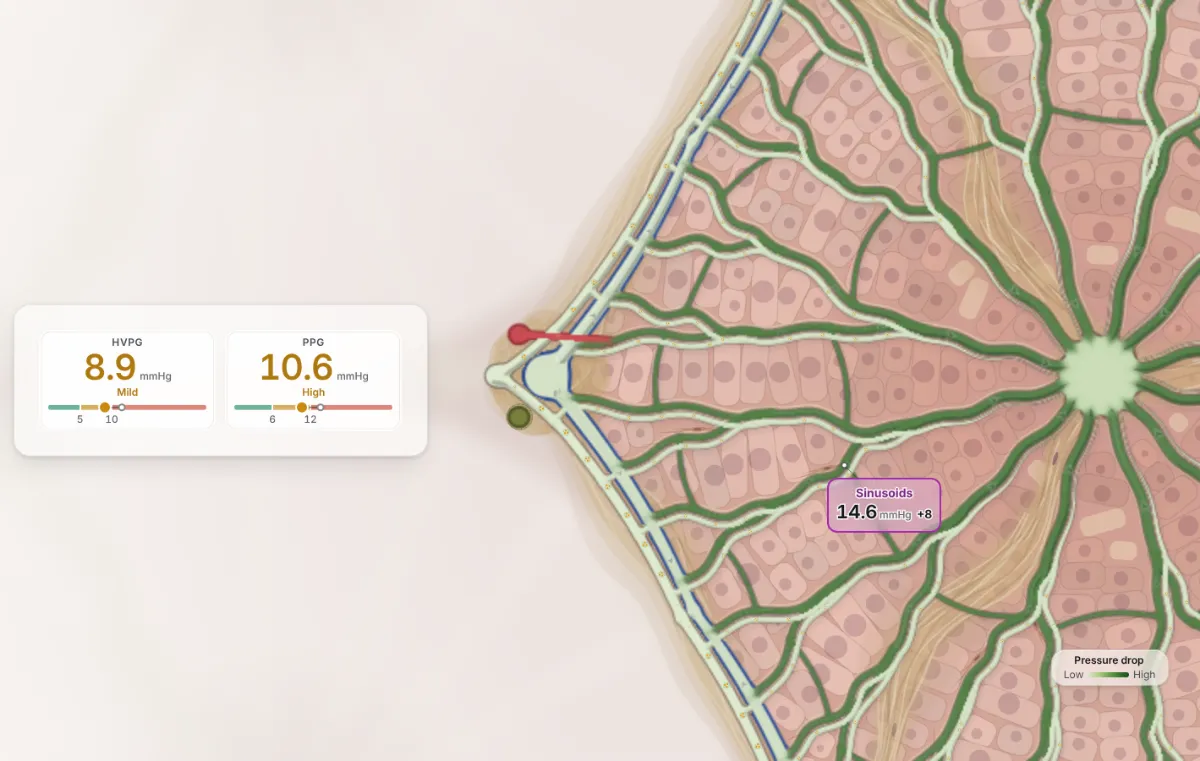
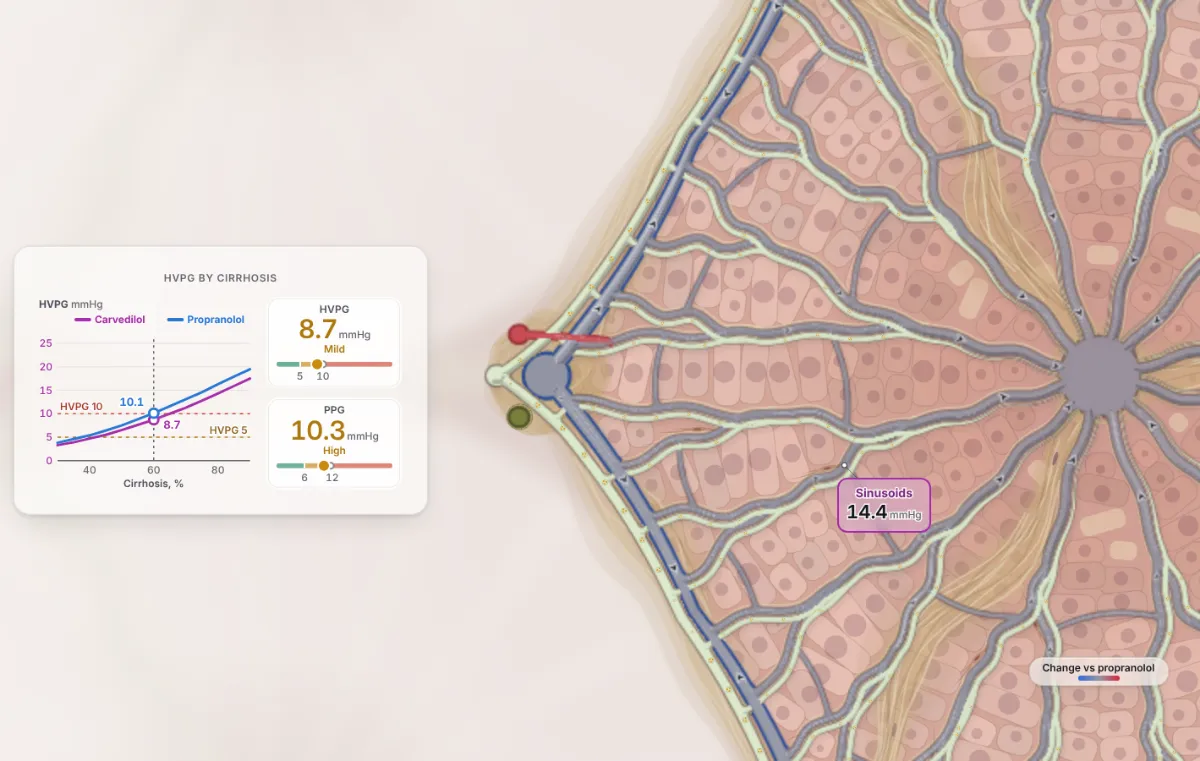
Beta-blockers 4: HVPG by cirrhosis on carvedilol and on propranolol (curve with against)
The carvedilol slide's data card gains the curve tool: the same patient swept
from 30 to 90% cirrhosis on carvedilol and on propranolol (HVPG 3.3 vs 3.8 at
30%, 8.7 vs 10.1 at the case's 60%, 17.5 vs 19.5 at 90%). The curve's two-line
key, shown when the lines' names don't fit on the drawing, takes its own row
when it would run into the reading's name and unit (every curve with against).

Claude-Session: https://claude.ai/code/session_01NmvvuDFbFqJfsFY4n2oiRW

diff --git a/src/ui/tool-curve.js b/src/ui/tool-curve.js
@@ -273,16 +273,20 @@ export function createCurve() {
     // (With against both lines are one reading on one scale, named on the lines; the key is only the reading and its unit.)
     const vals = ag ? [vals0.flat()] : vals0, keyLs = ag ? [{ ...lineMeta(curveLines(t)[0]), c: '--text-2', bare: true }] : ls;
     const keys0 = keyLs.length < 2 || keyLs.reduce((a, l) => a + 22 + cw(l.name, f, 1) + 6 + cw(l.unit, f), 0) + 2 * f <= w;
+    // (With against, the two lines' key that stands in when their names don't fit on the drawing takes a row of its own when
+    // it would run into the reading's name and unit at the left.)
+    const altW = ag ? ls.reduce((a, l) => a + 22 + 1.05 * cw(l.name, f, 1), 0) + f * (ls.length - 1) : 0;
+    const altBelow = ag && cw(keyLs[0].name, f, 1) + 6 + cw(keyLs[0].unit, f) + altW + 2 * f > w;
     // (No more numbers up the side than fit a line and a half of type apart.)
-    const plotH = h - 2.9 * f - ((keys0 ? 1 : 2) * 1.5 * f + 1.6 * f), most = clamp(Math.floor(plotH / (1.6 * f)) + 1, 3, 7);
+    const plotH = h - 2.9 * f - ((keys0 && !altBelow ? 1 : 2) * 1.5 * f + 1.6 * f), most = clamp(Math.floor(plotH / (1.6 * f)) + 1, 3, 7);
     const sL = leftScale(ls[0].k, vals[0], most), sR = ls[1] && !ag ? rightScale(vals[1], sL.ticks.length) : null;
     const keys = keyLs.map((l) => ({ ...l, w: (l.bare ? 0 : 22) + cw(l.name, f, 1) + 6 + cw(l.unit, f) }));
-    const oneRow = keys.length < 2 || keys[0].w + keys[1].w + 2 * f <= w, rowH = 1.5 * f, legH = (oneRow ? 1 : 2) * rowH;
+    const oneRow = keys.length < 2 || keys[0].w + keys[1].w + 2 * f <= w, rowH = 1.5 * f, legH = (oneRow && !altBelow ? 1 : 2) * rowH;
     const tw = (sc) => Math.max(...sc.ticks.map((v) => cw(fmt(v, dec(sc)), f)));
     const xt = xTicks(xs[0], xs.at(-1), Math.max(2, Math.min(7, Math.floor((w - 4 * f) / (3.2 * f)))));
     const L = Math.ceil(tw(sL) + 8), R = Math.floor(w - (sR ? tw(sR) + 8 : Math.max(8, cw(fmt(xs.at(-1), ax.d), f) / 2 + 2)));
     const T = legH + 1.6 * f, B = h - 2.9 * f;
-    return { w, h, f, ls, ag, ax, xs, xt, sL, sR, keys, oneRow, rowH, L, R, T, B: Math.max(T + 3 * f, B) };
+    return { w, h, f, ls, ag, ax, xs, xt, sL, sR, keys, oneRow, altBelow, rowH, L, R, T, B: Math.max(T + 3 * f, B) };
   }
   const X = (x) => G.L + (G.R - G.L) * (x - G.xs[0]) / ((G.xs.at(-1) - G.xs[0]) || 1);
   const Yof = (sc) => (v) => G.B - (G.B - G.T) * clamp((v - sc.min) / ((sc.max - sc.min) || 1), 0, 1);
@@ -328,7 +332,7 @@ export function createCurve() {
       const ks = [...ls].reverse().map((l) => { const kw = 22 + 1.05 * cw(l.name, f, 1); x -= kw; const at = x; x -= f;
         return sv('g', { transform: `translate(${at.toFixed(1)} 0)` }, sv('line', { x1: 0, x2: 16, y1: 0, y2: 0, style: `stroke: var(${l.c})` }),
           sv('text', { x: 22, y: 0.36 * f, style: `fill: var(${l.c})` }, l.name)); });
-      alt = sv('g', { class: 'pft-key pcv-alt off', transform: `translate(${G.w} ${0.75 * f})` }, ks);
+      alt = sv('g', { class: 'pft-key pcv-alt off', transform: `translate(${G.w} ${(G.altBelow ? G.rowH : 0) + 0.75 * f})` }, ks);
     }
     const axis = [sv('line', { class: 'pft-x', x1: L, x2: R, y1: B, y2: B }),
       // (The two end numbers stand inside the plot's ends, clear of the corner numbers of the y axes.)

diff --git a/src/ui/decks/beta-blockers.js b/src/ui/decks/beta-blockers.js
@@ -41,11 +41,12 @@ export const BETA_BLOCKERS = {
       ask: ['How does propranolol lower portal pressure?', 'It cuts the portal inflow: a lower cardiac output (β1) and constricted gut arterioles (β2).'],
     },
     {
-      id: 'carv-sin', params: CARV, lens: 'since', sinceLabel: 'propranolol', cam: 'lobule:sinusoid', terms: { sinusoids: 'lobule:sinusoid' }, data: 'tiles', tiles: ['hvpg', 'ppg'], key: ['hvpg'], delta: 'prop-sin',
+      id: 'carv-sin', params: CARV, lens: 'since', sinceLabel: 'propranolol', cam: 'lobule:sinusoid', terms: { sinusoids: 'lobule:sinusoid' },
+      tool: { kind: 'curve', param: 'cirrhosis', from: 0.3, to: 0.9, step: 0.05, lines: ['hvpg'], against: { label: 'Propranolol', params: PROP, own: 'Carvedilol' } }, data: 'tiles', tiles: ['hvpg', 'ppg'], key: ['hvpg'], delta: 'prop-sin',
       compare: [{ label: 'Propranolol', params: PROP }, { label: 'Carvedilol', own: true, params: CARV }],
       kicker: 'Cirrhosis', site: 'sin', title: 'Carvedilol lowers the HVPG more than propranolol in cirrhosis',
       line: 'Most of the resistance sits in the sinusoids. Carvedilol\'s α1 blockade is thought to relax their stellate cells, and with the lower inflow the HVPG falls to {hvpg}. Colored by change against propranolol, pressure in the sinusoids falls further.',
-      notes: 'Switch between the two drugs: carvedilol acts on both flow and resistance, so it lowers the HVPG more; in trials, by about 2 mmHg more than propranolol. Baveno VIII prefers carvedilol in compensated cirrhosis with clinically significant portal hypertension, to prevent decompensation.',
+      notes: 'Switch between the two drugs: carvedilol acts on both flow and resistance, so it lowers the HVPG more; in trials, by about 2 mmHg more than propranolol. The chart runs the same patient from mild to advanced cirrhosis on each drug: in the model the gap between the two lines widens as the sinusoidal resistance grows, from under 1 mmHg to about 2 mmHg. Baveno VIII prefers carvedilol in compensated cirrhosis with clinically significant portal hypertension, to prevent decompensation.',
       ask: ['Why does carvedilol lower the HVPG more than propranolol in cirrhosis?', 'Unlike propranolol, it lowers the resistance in the sinusoids, where most of the resistance sits.'],
     },
     {

diff --git a/src/ui/decks.js b/src/ui/decks.js
@@ -108,7 +108,7 @@ import { OUTFLOW } from './decks/outflow.js?v=a570abfc9d';
 import { RECOMPENSATION } from './decks/recompensation.js?v=e78b9f0f5e';
 import { WHERE } from './decks/where.js?v=07764393d5';
 import { PREGNANCY_DECK } from './decks/pregnancy.js?v=a65817a8f2';
-import { BETA_BLOCKERS } from './decks/beta-blockers.js?v=520a936fa7';
+import { BETA_BLOCKERS } from './decks/beta-blockers.js?v=d2c5a47d7e';
 import { ENCEPHALOPATHY } from './decks/encephalopathy.js?v=f72dc3c10f';
 import { CAUSE_TREATED } from './decks/cause-treated.js?v=0da183adb0';
 import { NEXT_BLEED } from './decks/next-bleed.js?v=f31959bf21';

diff --git a/tests/deck-adopted.js b/tests/deck-adopted.js
@@ -105,7 +105,7 @@ export const ADOPTED = {
   'sites/postsin': ['scales', 'kind:profile'],
   'sites/post': ['scales', 'kind:profile'],
   'sites/cardiac': ['scales', 'kind:profile'],
-  'beta-blockers/carv-sin': ['lens:since', 'sinceLabel'],
+  'beta-blockers/carv-sin': ['lens:since', 'sinceLabel', 'kind:curve', 'tool.against'],
   'beta-blockers/carv-pre': ['lens:since', 'sinceLabel'],
   'recompensation/ascites': ['kind:fluid'],
   'recompensation/carv': ['ripple', 'kind:profile'],
